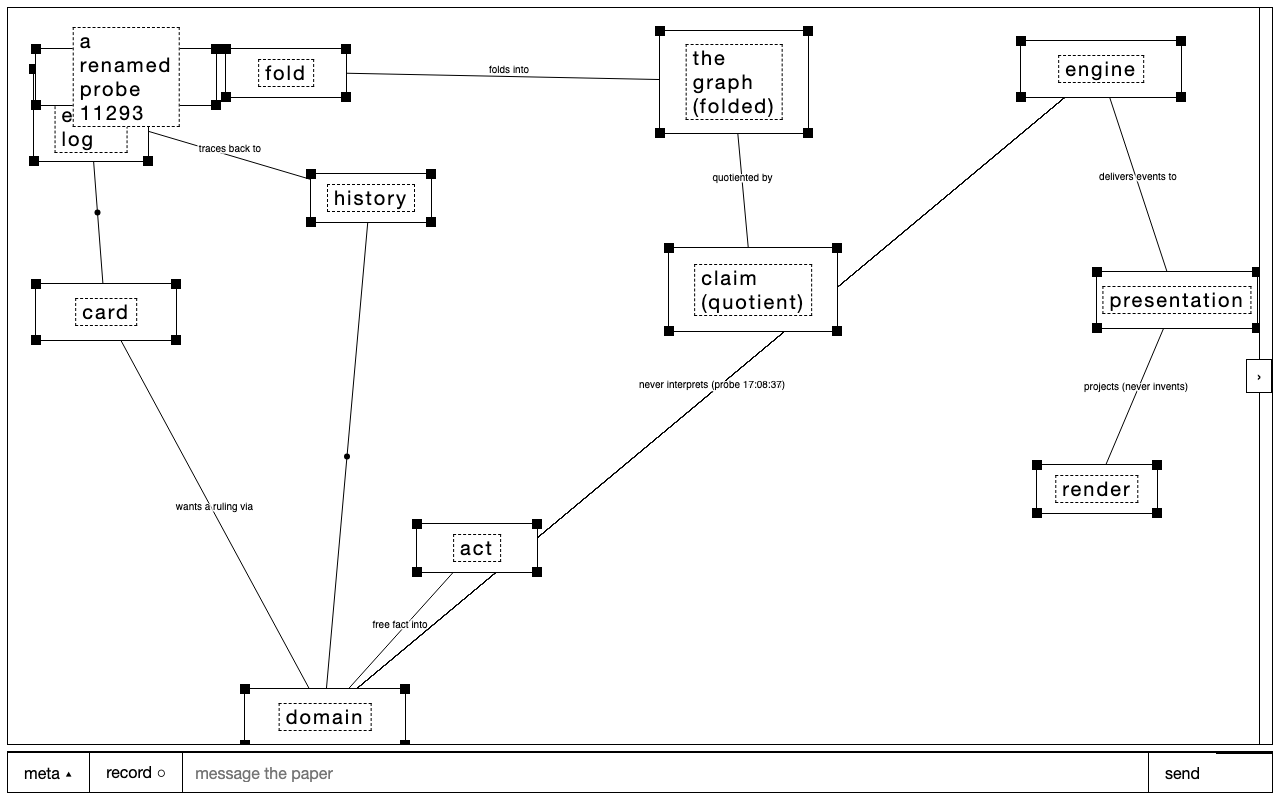
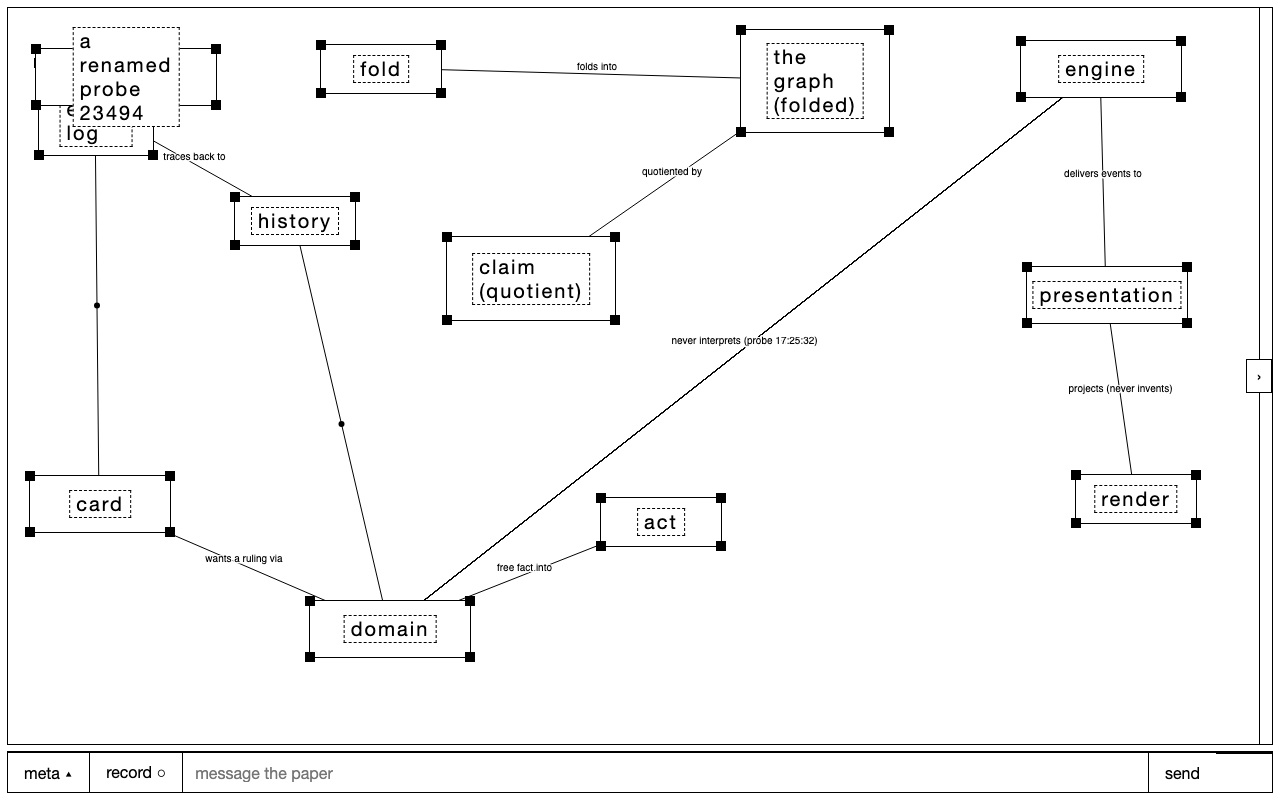
pan/zoom (unit 9): the view is ephemeral presentation state — a #panewrap inside the playground carries translate+scale; empty-plane drag pans, wheel zooms anchored at the cursor, nothing is logged (the view is a fact about the eye, not the domain). Model coordinates never move; acts convert screen→

diff --git a/web/index.html b/web/index.html
@@ -86,8 +86,40 @@
       edges = [...m.values()].filter((e) => !e.superseded);
     }
 
+    // ——— pan/zoom (unit 9): the view is ephemeral presentation state ———
+    // Model coordinates never change; a wrap div inside the playground carries
+    // translate+scale, reset to identity on every frame build. Panning is an
+    // empty-plane drag; zooming is the wheel, anchored at the cursor. Nothing
+    // is logged: the view is not a fact about the domain, only about the eye.
+    let view = { x: 0, y: 0, k: 1 };
+    function applyView() {
+      const w = playground?.querySelector('#panewrap');
+      if (w) w.style.transform = 'translate(' + view.x + 'px,' + view.y + 'px) scale(' + view.k + ')';
+    }
+    const toModel = (cx, cy) => { // screen → model (view-aware)
+      const r = playground.getBoundingClientRect();
+      return { x: (cx - r.left - view.x) / view.k, y: (cy - r.top - view.y) / view.k };
+    };
+    const toScreen = (x, y) => ({ x: x * view.k + view.x, y: y * view.k + view.y });
+    function wrapOf() {
+      let w = playground.querySelector('#panewrap');
+      if (!w) { w = document.createElement('div'); w.id = 'panewrap'; playground.append(w); }
+      return w;
+    }
+    plane.addEventListener('wheel', (e) => {
+      if (!sketch || !playground) return;
+      e.preventDefault();
+      const m = toModel(e.clientX, e.clientY);
+      view.k = Math.min(3, Math.max(0.3, view.k * Math.exp(-e.deltaY * 0.0012)));
+      const r = playground.getBoundingClientRect();
+      view.x = e.clientX - r.left - m.x * view.k;
+      view.y = e.clientY - r.top - m.y * view.k;
+      applyView();
+    }, { passive: false });
+
     function render() {
       if (!playground) return; // geometry frame not mounted
+      const wrap = wrapOf();
       // removal is reprojection too: a superseded node folds out of `boxes`,
       // and its element must leave the DOM (found by supersedeprobe)
       for (const el of playground.querySelectorAll('.box'))
@@ -108,7 +140,7 @@
             h.dataset.corner = c;
             el.append(h);
           }
-          playground.append(el);
+          wrap.append(el);
         }
         // reproject EVERY render — a rename must reach an existing element's
         // label, not just a freshly created one (found by makeprobe)
@@ -137,7 +169,7 @@
       if (!svg) {
         svg = document.createElementNS('http://www.w3.org/2000/svg', 'svg');
         svg.id = 'edgelay';
-        playground.prepend(svg);
+        wrapOf().prepend(svg);
       }
       svg.setAttribute('width', playground.clientWidth);
       svg.setAttribute('height', playground.clientHeight);
@@ -182,7 +214,7 @@
       }
       if (link) { // the rubber band — ephemeral, never logged
         const s = boxes.find((b) => b.name === link.from);
-        if (s) html += `<line class="rubber" x1="${s.x + s.w / 2}" y1="${s.y + s.h / 2}" x2="${link.px - playground.getBoundingClientRect().left}" y2="${link.py - playground.getBoundingClientRect().top}"/>`;
+        if (s) html += `<line class="rubber" x1="${s.x + s.w / 2}" y1="${s.y + s.h / 2}" x2="${(link.px - playground.getBoundingClientRect().left - view.x) / view.k}" y2="${(link.py - playground.getBoundingClientRect().top - view.y) / view.k}"/>`;
       }
       // the reading strip: the composed sentence IS the composition check —
       // a path that reads grammatically is admissible; one that stumbles is
@@ -443,7 +475,9 @@ One clause is still owed: a box flanked on both axes at once — one neighbor ea
     // ——— gestures: drag in the playground, swipe in doc boxes ———
     let swipe = null;
     plane.addEventListener('pointerdown', (e) => {
-      if (e.target.closest('.nav')) return; // let the page buttons click
+      if (e.target.closest('.nav, .frame-nav')) return; // let the page buttons click —
+      // .frame-nav too: the pan branch would capture the pointer and swallow
+      // the arrow buttons' clicks in the sketch frame (found by panprobe)
       const docEl = e.target.closest('.box.doc');
       if (docEl) {
         if (!docEl.querySelector('.pager')) return; // not swipeable (reader)
@@ -453,7 +487,16 @@ One clause is still owed: a box flanked on both axes at once — one neighbor ea
         return;
       }
       const boxEl = e.target.closest('.box');
-      if (!boxEl) return;
+      if (!boxEl) {
+        // empty-plane drag in the sketch = PAN (ephemeral). Edges and marks
+        // own their own downs; asks/panels sit at screen level and are skipped.
+        if (sketch && playground && !e.target.closest('#edgelay, .checkpanel, .verbin, #pathstrip')) {
+          drag = { mode: 'pan', px: e.clientX, py: e.clientY, sx: view.x, sy: view.y };
+          plane.setPointerCapture(e.pointerId);
+          e.preventDefault();
+        }
+        return;
+      }
       const i = +boxEl.dataset.i;
       // link gesture (sketch frame): grab a node's LABEL to draw an edge —
       // body drag moves it, label drag relates it. Tactile split, no modifier.
@@ -505,6 +548,12 @@ One clause is still owed: a box flanked on both axes at once — one neighbor ea
         renderEdges();
         return;
       }
+      if (drag && drag.mode === 'pan') { // the eye moves, not the world
+        view.x = drag.sx + (e.clientX - drag.px);
+        view.y = drag.sy + (e.clientY - drag.py);
+        applyView();
+        return;
+      }
       if (!drag) return;
       const dx = e.clientX - drag.px, dy = e.clientY - drag.py;
       const g = drag.mode === 'move'
@@ -532,8 +581,9 @@ One clause is still owed: a box flanked on both axes at once — one neighbor ea
       const el = document.createElement('input');
       el.className = 'verbin';
       el.placeholder = 'verb phrase?';
-      el.style.left = mx + 'px';
-      el.style.top = my + 'px';
+      const s = toScreen(mx, my); // the ask converses at screen level
+      el.style.left = s.x + 'px';
+      el.style.top = s.y + 'px';
       playground.append(el);
       el.focus();
       verbAsk = { from, to, el };
@@ -566,8 +616,9 @@ One clause is still owed: a box flanked on both axes at once — one neighbor ea
       el.className = 'verbin'; // same house style — it IS the same kind of ask
       el.placeholder = mode === 'create' ? 'noun phrase?' : 'rename?';
       el.value = prefill ?? '';
-      el.style.left = x + 'px';
-      el.style.top = y + 'px';
+      const s = toScreen(x, y); // model → screen: asks live at eye level
+      el.style.left = s.x + 'px';
+      el.style.top = s.y + 'px';
       playground.append(el);
       el.focus();
       el.select();
@@ -604,9 +655,11 @@ One clause is still owed: a box flanked on both axes at once — one neighbor ea
         const b = boxes[+boxEl.dataset.i];
         if (!b) return;
         askName('rename', b.x + b.w / 2, b.y + b.h / 2, b.name, b.label);
-      } else if (hit === playground) { // create at the click point
-        const r = playground.getBoundingClientRect();
-        askName('create', e.clientX - r.left, e.clientY - r.top, null, '');
+      } else if (!hit.closest('.box, .verbin, .checkpanel, .badge, #edgelay .hit')) {
+        // create at the click point — empty space is now the panewrap/svg
+        // covering the playground (hit === playground never fires anymore)
+        const m = toModel(e.clientX, e.clientY);
+        askName('create', m.x, m.y, null, '');
       }
       // clicks on box bodies / handles / doc elements: not ours
     });
@@ -637,6 +690,18 @@ One clause is still owed: a box flanked on both axes at once — one neighbor ea
           if (selected) { selected = null; render(); renderEdges(); }
           closeCheck();
         }
+        return;
+      }
+      // pan release: a pan that never moved is a plain empty-plane click —
+      // deselect and close evidence, same as the no-capture path
+      if (drag.mode === 'pan') {
+        const moved = Math.abs(e.clientX - drag.px) >= 4 || Math.abs(e.clientY - drag.py) >= 4;
+        if (!moved && !e.target.closest?.('#edgelay')) {
+          if (selected) { selected = null; render(); renderEdges(); }
+          closeCheck();
+        }
+        drag = null;
+        plane.releasePointerCapture(e.pointerId);
         return;
       }
       // a click that never moved: select the node (sketch) — selection is
@@ -738,6 +803,7 @@ THE THREE MACHINES (07:50): the system is layered orthogonal state machines — 
           playground = document.getElementById('playground');
           playground.classList.add('sketchplay');
           sketch = true;
+          view = { x: 0, y: 0, k: 1 }; // the eye resets; the log does not
           foldNodes();
           foldEdges();
           foldGeometry(); // dragged-node positions, name = node id

diff --git a/web/panprobe.ts b/web/panprobe.ts
@@ -1,0 +1,72 @@
+// web/panprobe.ts — the view is ephemeral: empty-plane drag pans, wheel zooms
+// toward the cursor, and NOTHING is logged — model geometry is untouched.
+// Run: bun web/panprobe.ts
+
+import { chromium } from "../prototypes/interaction/node_modules/playwright/index.js";
+
+const URL = process.env.PAPER_URL ?? "http://localhost:5174";
+const browser = await chromium.launch();
+const page = await browser.newPage({ viewport: { width: 1280, height: 800 } });
+page.on("pageerror", (e) => console.log("pageerror:", String(e).slice(0, 300)));
+// count only THIS page's acts — the log is multi-writer (Julian's live tab
+// may be dragging nodes in parallel); the eye-logs-nothing claim is local
+await page.addInitScript(() => {
+  window.__acts = 0;
+  const f = window.fetch;
+  window.fetch = (...a) => { if (a[1]?.method === "POST" && String(a[0]).includes("/act")) window.__acts++; return f(...a); };
+});
+await page.goto(URL, { waitUntil: "networkidle" });
+await page.waitForTimeout(2500);
+for (let i = 0; i < 9; i++) {
+  const t = await page.locator("#frame-title").textContent();
+  if (t.includes("olog")) break;
+  await page.click("#fnext"); await page.waitForTimeout(150);
+}
+
+
+const box = (txt) => page.locator("#playground .box", { has: page.locator(".label", { hasText: new RegExp("^" + txt.replace(/[()*+?.^${}|[\]\\]/g, "\\$&") + "$") }) }).first();
+const fold0 = await box("fold").boundingBox();
+const wrap = await page.locator("#panewrap").evaluate((el) => getComputedStyle(el).transform);
+
+// PAN: drag the empty plane (a spot with no box: below the floor olog)
+await page.mouse.move(900, 640);
+await page.mouse.down();
+await page.mouse.move(960, 690, { steps: 5 });
+await page.mouse.up();
+await page.waitForTimeout(200);
+const transform1 = await page.locator("#panewrap").evaluate((el) => el.style.transform);
+const fold1 = await box("fold").boundingBox();
+console.log("pan transform:", transform1, "| fold moved by dx:", Math.round(fold1.x - fold0.x), "dy:", Math.round(fold1.y - fold0.y));
+const panned = /translate\(60px, ?50px\)/.test(transform1) && Math.round(fold1.x - fold0.x) === 60 && Math.round(fold1.y - fold0.y) === 50;
+
+// ZOOM: wheel out (deltaY > 0 shrinks) anchored mid-plane
+await page.mouse.move(640, 380);
+await page.mouse.wheel(0, 400);
+await page.waitForTimeout(200);
+const transform2 = await page.locator("#panewrap").evaluate((el) => el.style.transform);
+const fold2 = await box("fold").boundingBox();
+console.log("zoom transform:", transform2, "| fold size:", Math.round(fold2.width), "was", Math.round(fold0.width));
+const zoomed = /scale\(0\.6/.test(transform2) && Math.round(fold2.width) < Math.round(fold0.width) * 0.7;
+
+// acts still land in MODEL coordinates: dblclick empty space creates a node
+// at the unviewed position; drag a box and its geometry act is view-free
+await page.mouse.click(1200, 700); // deselect anything
+await page.waitForTimeout(150);
+const logQuiet = (await page.evaluate(() => window.__acts)) === 0; // the eye logged nothing
+
+// view resets on frame re-entry: navigate away and back
+for (let i = 0; i < 9; i++) { await page.click("#fnext"); await page.waitForTimeout(120); const t = await page.locator("#frame-title").textContent(); if (!t.includes("olog")) break; }
+for (let i = 0; i < 9; i++) { await page.click("#fprev"); await page.waitForTimeout(120); const t = await page.locator("#frame-title").textContent(); if (t.includes("olog")) break; }
+await page.waitForTimeout(600);
+const transform3 = await page.locator("#panewrap").evaluate((el) => el.style.transform);
+const fold3 = await box("fold").boundingBox(); // printed for the eye; position parity is
+// meaningless in a multi-writer log (parallel drags re-seat nodes) — the
+// transform is the reset claim
+console.log("after re-entry transform:", JSON.stringify(transform3), "| fold at:", fold3 && [Math.round(fold3.x), Math.round(fold3.y)]);
+const reset = !transform3 || transform3 === "none" || /translate\(0px, ?0px\) scale\(1\)/.test(transform3);
+
+console.log("nothing logged by the eye:", logQuiet, "| view resets on re-entry:", reset);
+const ok = panned && zoomed && logQuiet && reset;
+console.log(ok ? "PASS — the eye moves, the world holds still" : "FAIL");
+await browser.close();
+process.exit(ok ? 0 : 1);

diff --git a/web/makeprobe.ts b/web/makeprobe.ts
@@ -26,10 +26,38 @@ const stamp = Date.now() % 100000;
 const NAME = "a probe node " + stamp;
 const RENAME = "a renamed probe " + stamp;
 
-// (a) create: double-click a clear spot mid-plane (not near an edge —
-// nodes overflow the playground bottom and clicks then miss the pill)
+// self-clean (supersede made it possible): fold away leftover probe nodes
+// from earlier runs — the plane is live and multi-writer, strays accumulate
+{
+  const evs = await (await fetch(URL + "/events")).json();
+  const nodes = new Map();
+  for (const e of evs) if (e.kind === "node" && e.id) nodes.set(e.id, e);
+  for (const e of nodes.values()) {
+    if (e.superseded || !/probe/i.test(e.label ?? "")) continue;
+    await fetch(URL + "/act", { method: "POST", headers: { "content-type": "application/json" }, body: JSON.stringify({ actor: "paper", kind: "node", id: e.id, label: e.label, node_kind: e.node_kind, superseded: true }) });
+    console.log("pre-clean: superseded node", e.id, e.label);
+  }
+  await page.waitForTimeout(2600);
+}
+
+// (a) create: double-click a CLEAR spot — the layout is live (Julian drags
+// nodes while probes run; a hardcoded spot got covered by 'the graph' and
+// the ask never opened). Scan for space no box or mark owns.
 const pg = await page.locator("#playground").boundingBox();
-await page.mouse.dblclick(pg.x + pg.width * 0.85, pg.y + pg.height * 0.35);
+async function clearSpot() {
+  for (const fx of [0.85, 0.7, 0.9, 0.5, 0.3, 0.6, 0.8]) for (const fy of [0.35, 0.6, 0.25, 0.75, 0.45]) {
+    const x = pg.x + pg.width * fx, y = pg.y + pg.height * fy;
+    const clear = await page.evaluate(([x, y]) => {
+      const el = document.elementFromPoint(x, y);
+      return el && !el.closest(".box, .badge, .checkpanel, .verbin") && !el.closest("#edgelay");
+    }, [x, y]);
+    if (clear) return [x, y];
+  }
+  return null;
+}
+const spot = await clearSpot();
+if (!spot) { console.log("FAIL — no clear space on a crowded plane"); await browser.close(); process.exit(1); }
+await page.mouse.dblclick(spot[0], spot[1]);
 const ask = page.locator(".verbin");
 console.log("create ask visible:", await ask.count() === 1);
 await ask.fill(NAME);
@@ -66,7 +94,8 @@ const identity = createAct && renameAct && createAct.id === renameAct.id;
 
 // (d) abandon path: open the ask, Escape — no act, nothing new on plane
 const before = await page.locator("#playground .box").count();
-await page.mouse.dblclick(pg.x + pg.width * 0.6, pg.y + 40);
+const spot2 = await clearSpot();
+await page.mouse.dblclick(spot2[0], spot2[1]);
 await page.locator(".verbin").press("Escape");
 await page.waitForTimeout(300);
 const afterEscape = await page.locator("#playground .box").count();

diff --git a/web/house.css b/web/house.css
@@ -409,3 +409,7 @@ form .status {
   font: 11px/1.4 sans-serif; max-width: 80%; z-index: 4; pointer-events: none;
 }
 #edgelay line.path { stroke-width: 2.5; }
+
+/* pan/zoom: the view layer — model coordinates never move, the wrap does */
+#panewrap { position: absolute; inset: 0; transform-origin: 0 0; }
+#panewrap svg { overflow: visible; } /* lines may leave the viewport-shaped canvas */
